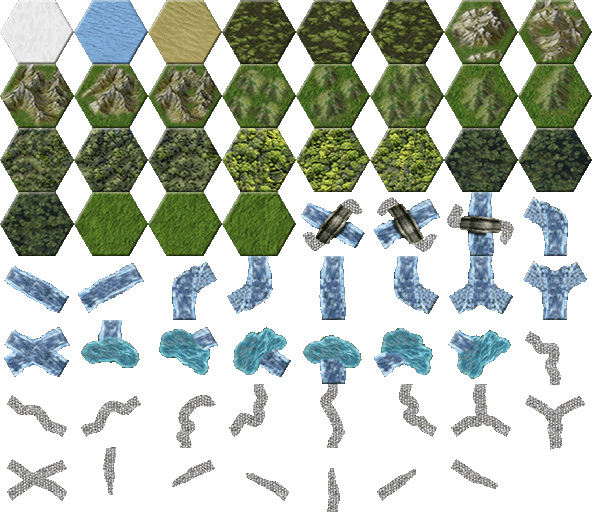
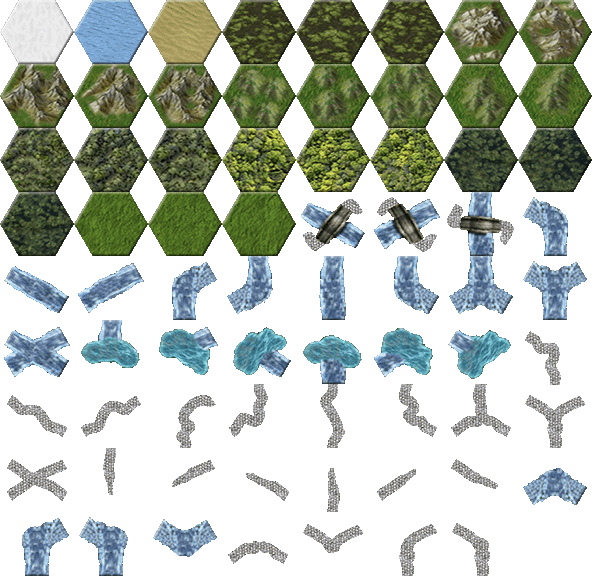
New river and road tiles have been added to a the tiles map

diff --git a/trench_warfare/lib/screens/game_field_screen/model/data/readers/game_field/cells_reader.dart b/trench_warfare/lib/screens/game_field_screen/model/data/readers/game_field/cells_reader.dart
@@ -27,8 +27,8 @@ class CellsReader {
             hasRiver: _hasRiver(roadsAndRiversLayer.data![i]),
             hasRoad: _hasRoad(roadsAndRiversLayer.data![i]),
             center: Vector2(
-                (tileSize.x / 2) + (col * (b + c)),
-                a + (row * tileSize.y) + (col.isOdd ? a : 0),
+              (tileSize.x / 2) + (col * (b + c)),
+              a + (row * tileSize.y) + (col.isOdd ? a : 0),
             ),
             row: row,
             col: col,
@@ -53,8 +53,12 @@ class CellsReader {
         _ => throw FormatException('This tile index is unsupported: $terrainTileIndex')
       };
 
-  static bool _hasRiver(int terrainTileIndex) => terrainTileIndex >= 29 && terrainTileIndex <= 47;
+  static bool _hasRiver(int terrainTileIndex) =>
+      (terrainTileIndex >= 29 && terrainTileIndex <= 47) ||
+      (terrainTileIndex >= 64 && terrainTileIndex <= 67);
 
   static bool _hasRoad(int terrainTileIndex) =>
-      terrainTileIndex >= 48 && terrainTileIndex <= 63 || terrainTileIndex >= 29 && terrainTileIndex <= 31;
+      (terrainTileIndex >= 48 && terrainTileIndex <= 63) ||
+      (terrainTileIndex >= 29 && terrainTileIndex <= 31) ||
+      (terrainTileIndex >= 68 && terrainTileIndex <= 71);
 }

diff --git a/trench_warfare/lib/database/entities/save_slot_db_entity.dart b/trench_warfare/lib/database/entities/save_slot_db_entity.dart
@@ -8,7 +8,7 @@ class SaveSlotDbEntity {
   /// [0-9]
   int slotNumber;
 
-  /// Full name of the map (for example: assets/tiles/real/europe/the_battle_of_tannenburg.tmx)
+  /// Full name of the map (for example: assets/tiles/real/europe/battle_of_tannenburg.tmx)
   String mapFileName;
 
   bool isAutosave;
